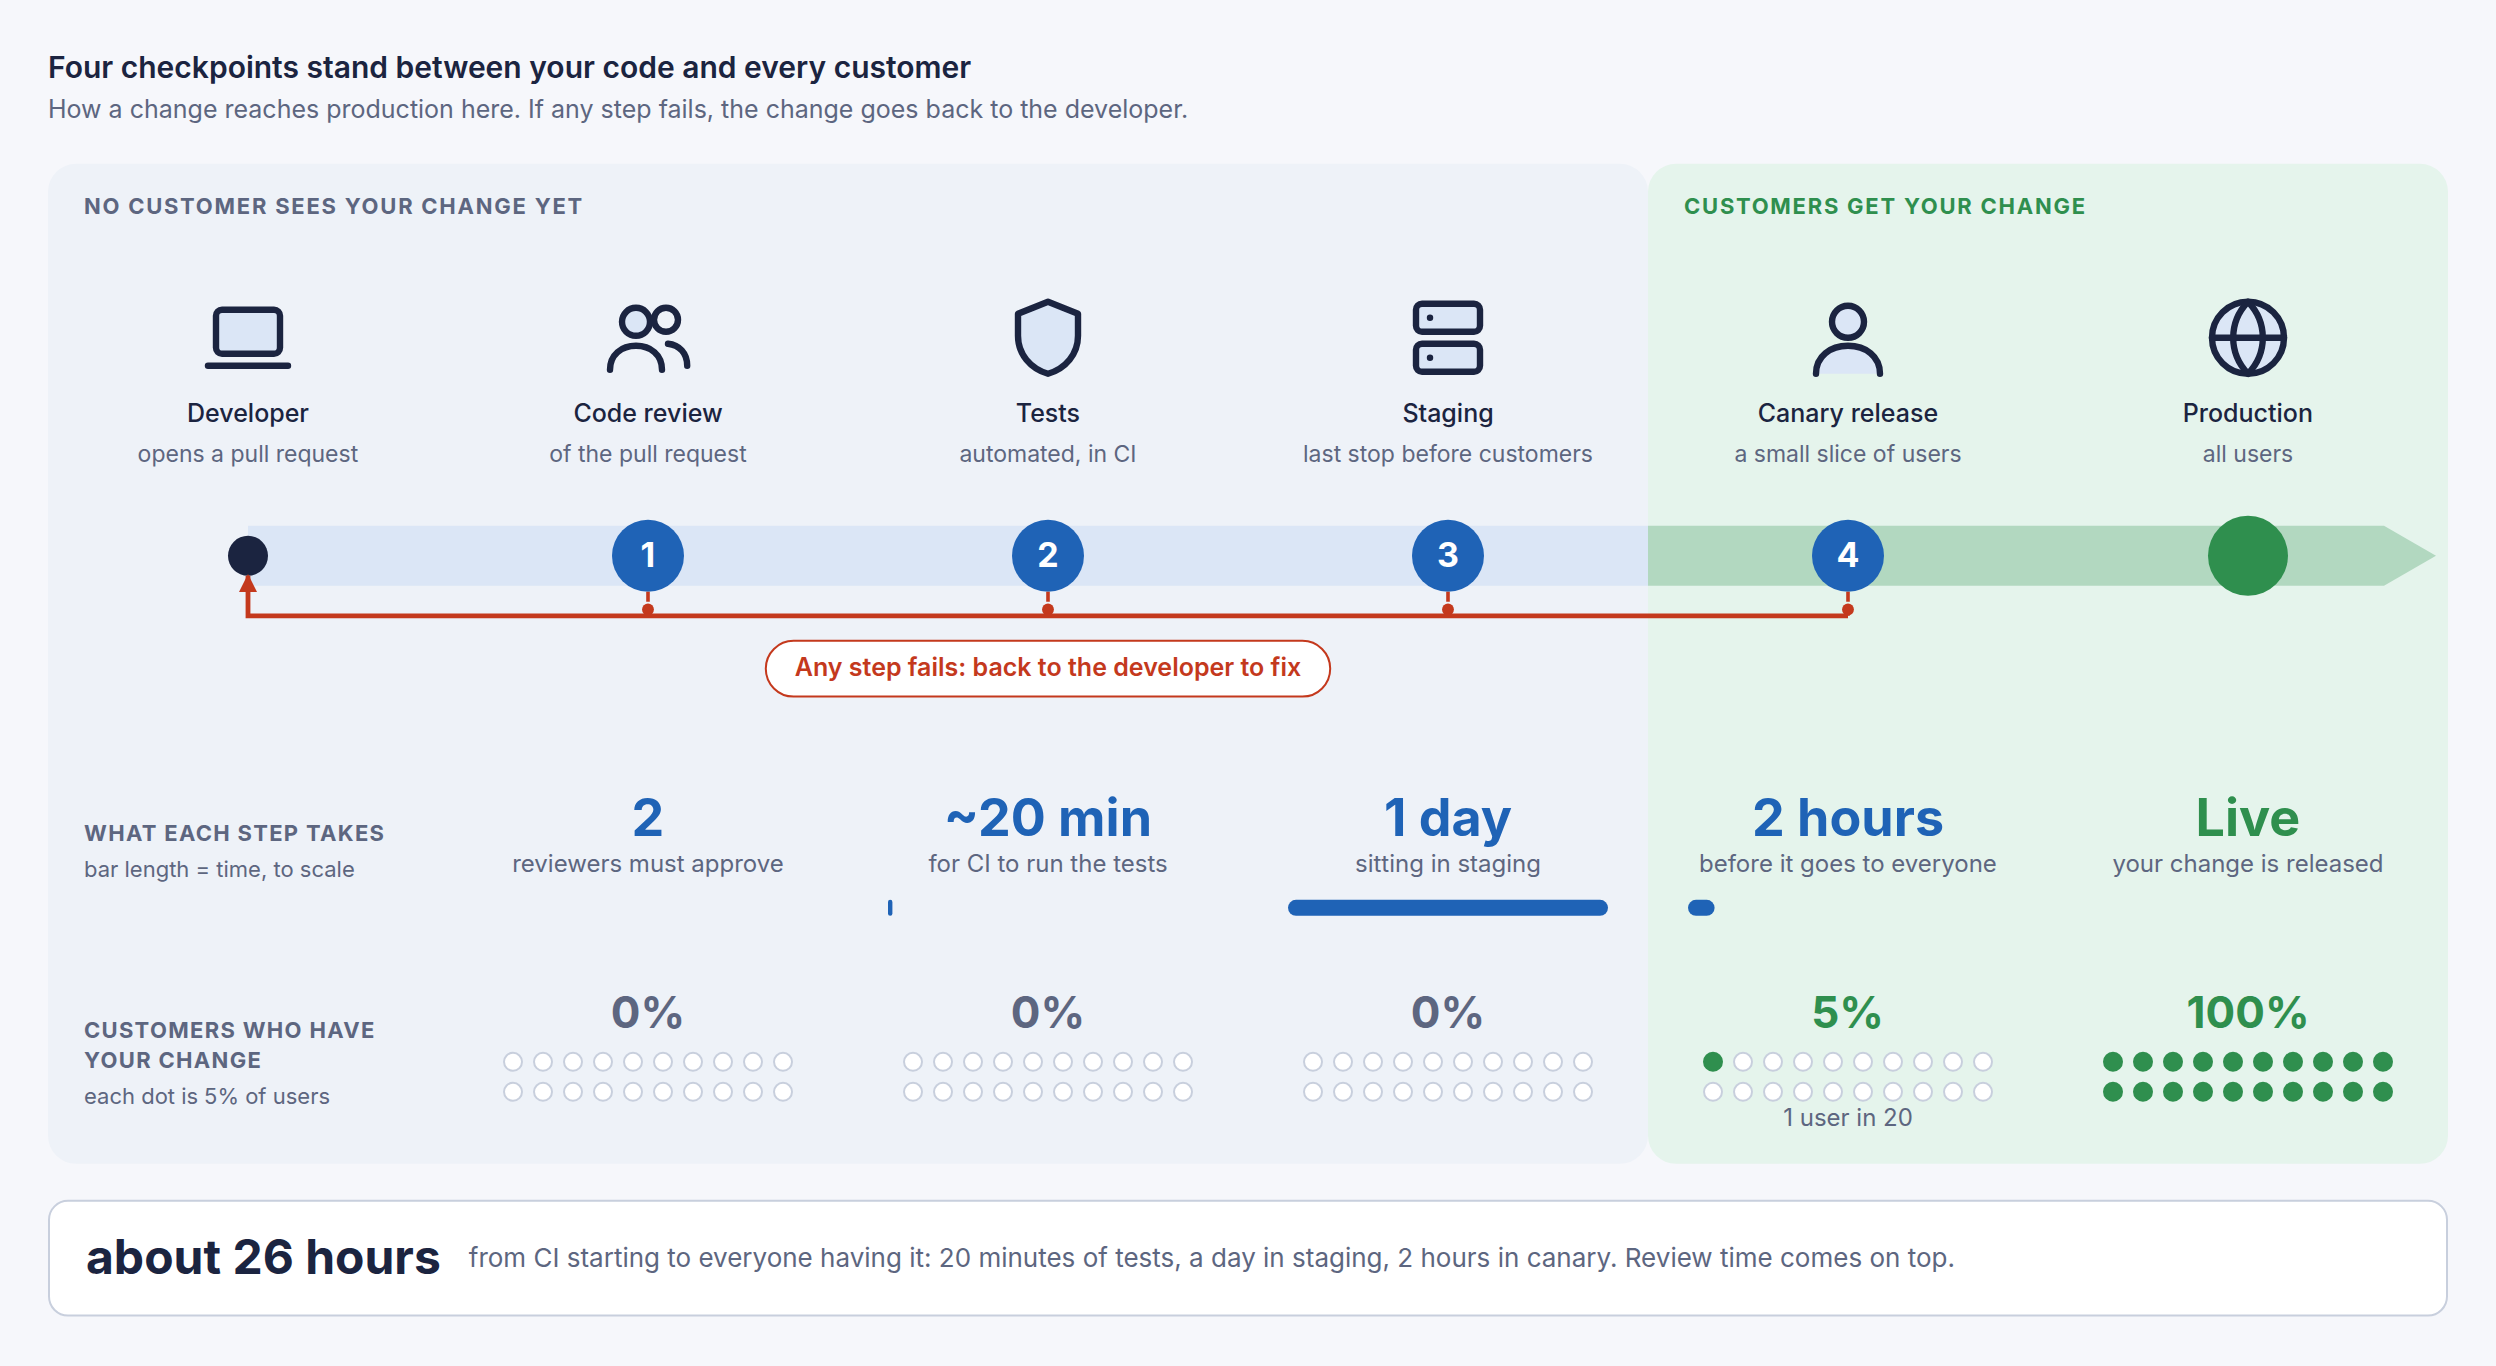
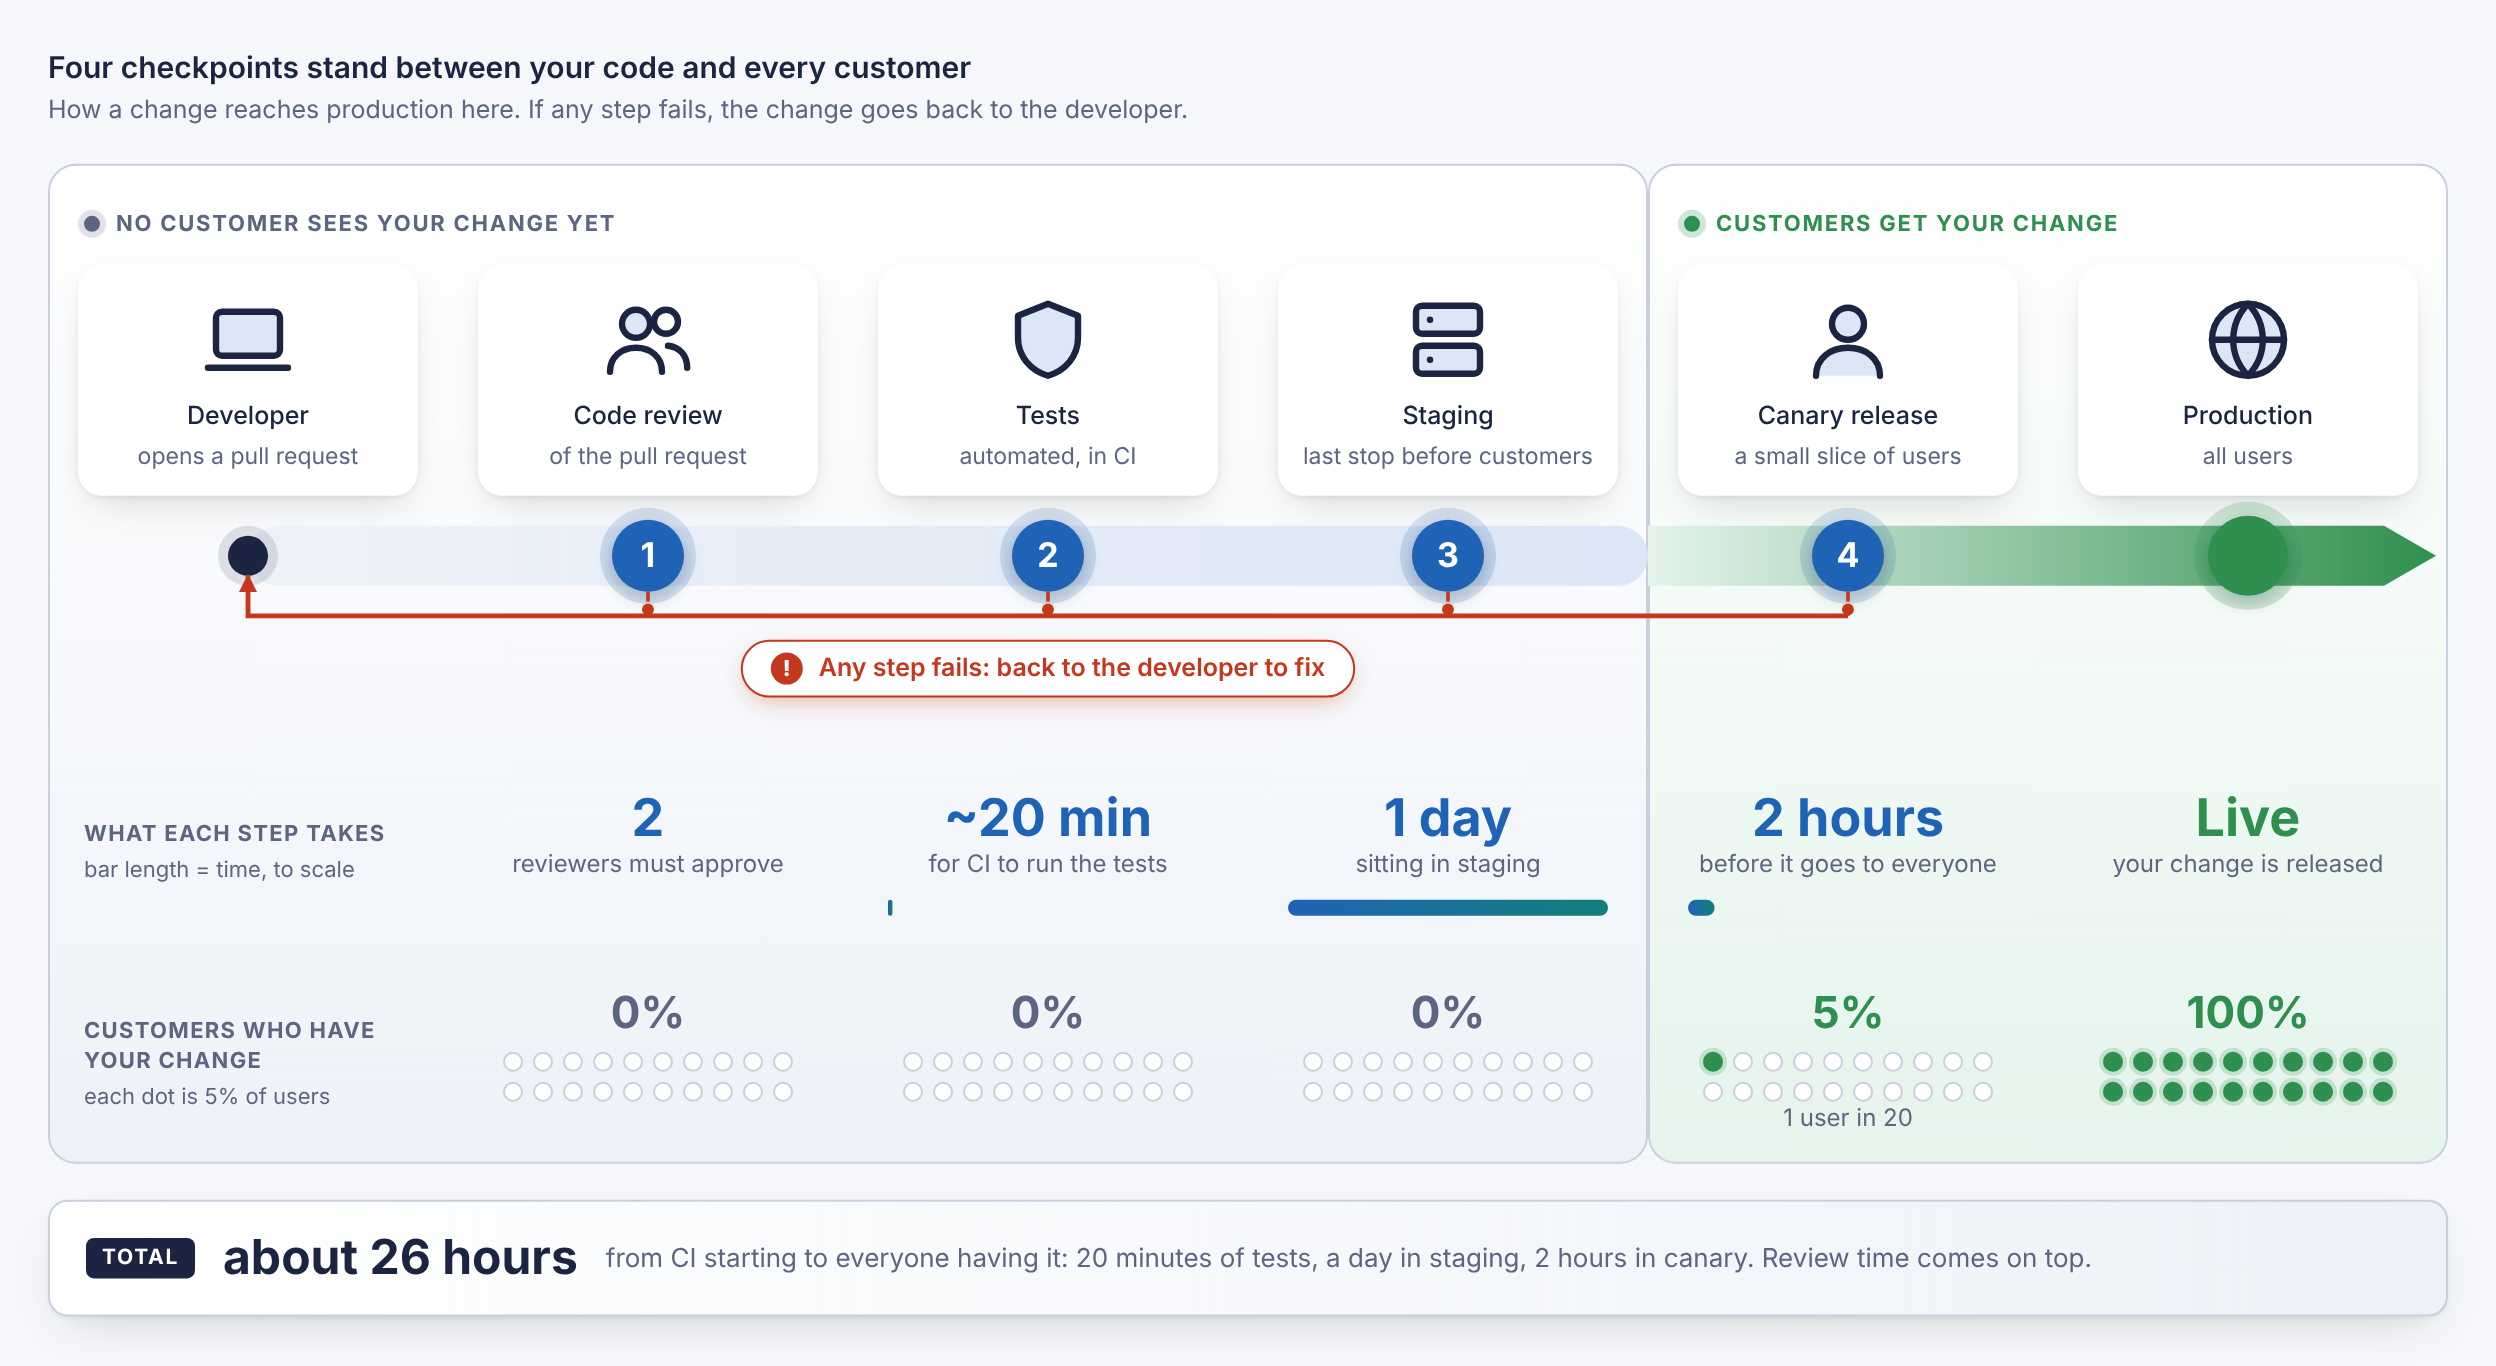
Release gates: depth and light from the CSS graphally now draws
Same figure, same text. Stations stand on soft shadows, the road runs as
a gradient into the live zone, the checkpoints carry halos, the zone
labels and the failure pill get status marks from ::before, and the
total sits on a raised card. Gradients run between theme tokens, so the
dark copy follows the theme.

diff --git a/samples/release-gates/diagram.html b/samples/release-gates/diagram.html
@@ -52,6 +52,25 @@ Focal point: the four large numbered stops on the road.
   .dots i.on { background: var(--green); border-color: var(--green); }
   .total { display: flex; align-items: center; gap: 14px; margin-top: 18px; padding: 12px 18px; border-radius: 10px; background: var(--card); border: 1.5px solid var(--line); font-size: 13px; color: var(--muted); }
   .total b { font-size: 24px; font-weight: 700; color: var(--ink); white-space: nowrap; }
+
+  /* Depth and light: the same figure, drawn with the CSS graphally supports. */
+  .zone.safe { background: linear-gradient(180deg, var(--card), var(--wash)); border: 1px solid var(--line); }
+  .zone.live { background: linear-gradient(180deg, var(--card), var(--lane-b)); border: 1px solid var(--line); }
+  .zl { display: flex; align-items: center; gap: 8px; }
+  .zl::before { content: ""; width: 8px; height: 8px; border-radius: 50%; background: var(--muted); box-shadow: 0 0 0 3px color-mix(in srgb, var(--muted) 18%, transparent); }
+  .zl.live::before { background: var(--green); box-shadow: 0 0 0 3px color-mix(in srgb, var(--green) 22%, transparent); }
+  .st .figure { padding: 14px 10px 12px; border-radius: 12px; background: var(--card); box-shadow: 0 1px 2px rgba(16, 24, 40, 0.06), 0 8px 20px -8px rgba(16, 24, 40, 0.18); }
+  .track.a { border-radius: 15px 0 0 15px; background: linear-gradient(90deg, var(--wash), var(--icon-soft)); }
+  .track.b { background: linear-gradient(90deg, var(--lane-b), var(--green)); }
+  .stop { box-shadow: 0 0 0 6px color-mix(in srgb, var(--woad) 16%, transparent), 0 3px 8px rgba(16, 24, 40, 0.25); }
+  .stop.start { box-shadow: 0 0 0 5px color-mix(in srgb, var(--ink) 12%, transparent); }
+  .stop.end { box-shadow: 0 0 0 7px color-mix(in srgb, var(--green) 20%, transparent), 0 3px 8px rgba(16, 24, 40, 0.25); }
+  .rail { display: inline-flex; align-items: center; gap: 8px; box-shadow: 0 4px 12px -4px color-mix(in srgb, var(--rust) 45%, transparent); }
+  .rail::before { content: "!"; width: 16px; height: 16px; border-radius: 50%; background: var(--rust); color: var(--card); font-size: 11px; font-weight: 800; display: flex; align-items: center; justify-content: center; }
+  .tbar { background: linear-gradient(90deg, var(--woad), var(--teal)); }
+  .dots i.on { box-shadow: 0 0 0 2px color-mix(in srgb, var(--green) 20%, transparent); }
+  .total { border: 1px solid var(--line); background: linear-gradient(90deg, var(--card), var(--wash)); box-shadow: 0 1px 2px rgba(16, 24, 40, 0.05), 0 10px 24px -12px rgba(16, 24, 40, 0.22); }
+  .total::before { content: "Total"; font-size: 10.5px; font-weight: 700; letter-spacing: 0.08em; text-transform: uppercase; color: var(--card); background: var(--ink); padding: 3px 8px; border-radius: 4px; }
 </style>
 
 <div class=pipe>
